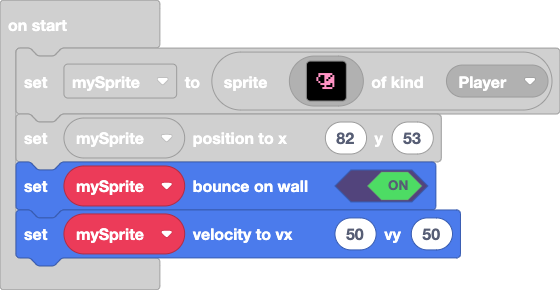
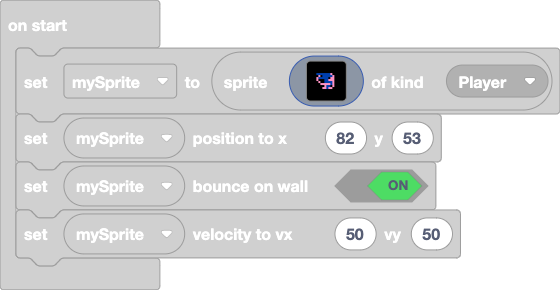
blue

Changed region(s): [[0.0, 0.5276, 0.85, 0.931], [0.5161, 0.1862, 0.6679, 0.3724]]

diff --git a/main.ts b/main.ts
@@ -3,14 +3,14 @@ let mySprite = sprites.create(img`
     . . . . . . . . . . . . . . . . 
     . . . . . . . . . . . . . . . . 
     . . . . . . . . . . . . . . . . 
-    . . . . 3 3 3 3 3 3 3 . . . . . 
-    . . . . 3 . . 3 3 3 . 3 . . . . 
-    . . . 3 . . . 3 3 . 3 3 . . . . 
-    . . . 3 . . . 3 . 3 3 3 . . . . 
-    . . . . 3 . . 3 3 3 3 3 . . . . 
-    . . . . . 3 3 3 3 3 . 3 . . . . 
-    . . . . . . . 3 . . . 3 . . . . 
-    . . . . . . 3 3 3 3 3 . . . . . 
+    . . . 8 8 8 8 8 8 8 3 . . . . . 
+    . . . . 3 . 8 8 8 8 8 3 . . . . 
+    . . . 3 8 8 8 8 8 . 3 3 . . . . 
+    . . . 3 . . . 8 8 3 3 3 . . . . 
+    . . . . 3 . . 8 8 8 8 3 . . . . 
+    . . . . . 3 3 3 3 3 8 3 . . . . 
+    . . . . . . . 3 8 8 . 3 . . . . 
+    . . . . . . 3 3 8 3 3 . . . . . 
     . . . . . . . . . . . . . . . . 
     . . . . . . . . . . . . . . . . 
     . . . . . . . . . . . . . . . . 
